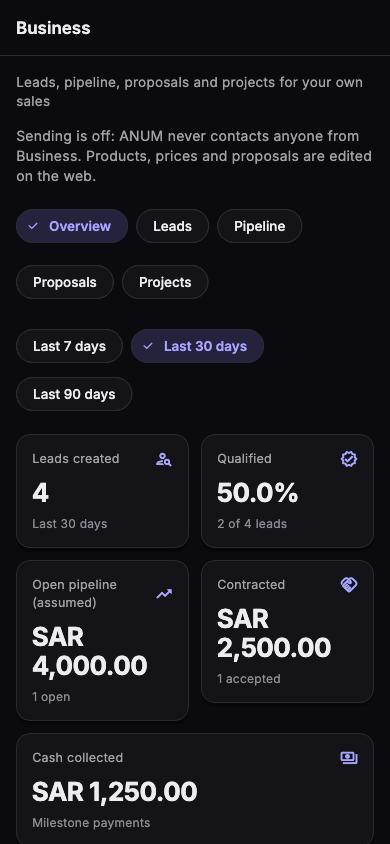
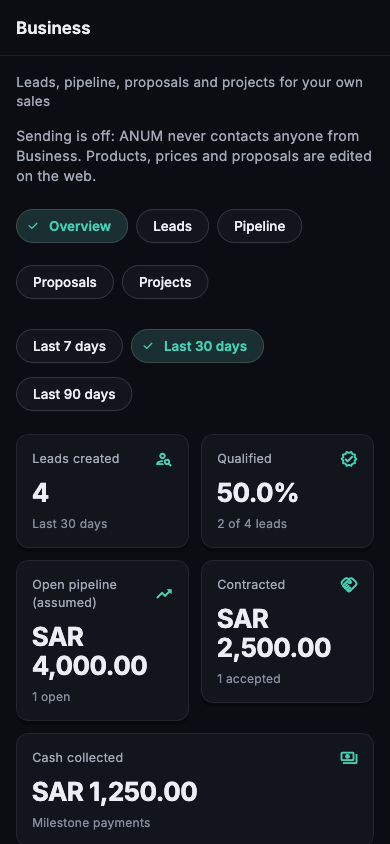
Flutter: jade screenshots and token docs; All inboxes date fits at 200% text

diff --git a/apps/mobile/lib/features/mail_center/mail_all_inboxes.dart b/apps/mobile/lib/features/mail_center/mail_all_inboxes.dart
@@ -607,7 +607,15 @@ class _AllInboxTile extends StatelessWidget {
               ),
             ),
             const SizedBox(width: AnumSpacing.xs),
-            Text(mailWhen(context, m.date), style: theme.textTheme.bodySmall),
+            // A date (not today's time) at 200% text must not push the row
+            // past the tile: one line, fading at its end.
+            Flexible(
+              child: Text(mailWhen(context, m.date),
+                  maxLines: 1,
+                  softWrap: false,
+                  overflow: TextOverflow.fade,
+                  style: theme.textTheme.bodySmall),
+            ),
           ],
         ),
         subtitle: Column(

diff --git a/apps/mobile/lib/src/localization/anum_localizations.dart b/apps/mobile/lib/src/localization/anum_localizations.dart
@@ -2901,6 +2901,7 @@ class _AnumDelegate extends LocalizationsDelegate<AnumLocalizations> {
     Intl.defaultLocale = locale.languageCode;
     return SynchronousFuture(AnumLocalizations(locale));
   }
+
   @override
   bool shouldReload(_AnumDelegate old) => false;
 }

diff --git a/docs/design/anum360.md b/docs/design/anum360.md
@@ -12,8 +12,8 @@ The owner's mockups for the ANUM 360 redesign are in [`anum360-mockups/`](anum36
 
 ## Visual language
 
-- A calm, premium enterprise look (owner, 19 Oct 2026): a restrained neutral base, one brand accent (ANUM iris) for primary actions, links, focus and selection, and semantic colours only for real status (green done, amber pending, red stop), always with a text label too.
-- Hairline borders with soft depth, no gradient text, first-class light and dark themes. The blue-to-violet brand gradient stays only on the ANUM mark and the orb.
+- A calm, premium enterprise look (owner, 19 Oct 2026): a graphite neutral base, one brand accent (jade) for primary actions, links, focus and selection, and semantic colours only for real status (green done, amber pending, red stop), always with a text label too.
+- Hairline borders with soft depth, no gradient text, first-class light and dark themes. The ANUM mark and the orb are drawn in three steps of jade.
 - The orb (the ANUM "A" mark with a live waveform) is the centre of the bottom navigation and of the command screens.
 - Every colour, spacing and type value comes from the app's tokens (`AnumPalette`, `AnumSpacing`, the theme). Mockup values are mapped to the nearest token, never copied.
 
@@ -79,23 +79,22 @@ Rules: every primary action uses the accent gradient (`--d-primary-grad`), never
 
 Tests: `test/theme.test.ts` (the choice rules, the pre-paint script agreeing with them, the dark tokens matching the app's palette, and AA for text, links and status colours on every surface of both themes), `e2e/theme.spec.ts` (Settings > Appearance, reload, "Match my device", the user menu in Arabic, no horizontal overflow at 1440x900, 1366x768, 1024x768, 768x1024 and 390x844) and the light-theme axe pass in `e2e/accessibility.spec.ts`.
 
-### Flutter tokens (premium identity)
+### Flutter tokens (graphite and jade)
 
-`AnumPalette` in `apps/mobile/lib/src/theme/anum_theme.dart` holds the app's tokens; the theme (ColorScheme, TextTheme, buttons, inputs, chips, list tiles, tabs, app bars, navigation bar and rail, dialogs, sheets, snack bars, tooltips, switches) and the shared widgets (`AnumSurface`, `AnumMetric`, `AnumMetricGrid`, `AnumIconChip`, `AnumPill`, `AnumEmpty`, `AnumFeedback`, `AnumSkeleton`, `AnumGradientButton`, the bottom navigation and menu drawer) read only these, so every screen inherits the look. The web's tokens are to be kept to the same values (web branch `claude/design-shell-fixes`; its token change had not landed when these were set).
+`AnumPalette` in `apps/mobile/lib/src/theme/anum_theme.dart` holds the app's tokens, with the same values as the web's graphite and jade identity (`docs/design/visual-identity.md` and the token block in `apps/web/src/styles.css`, from the web branch `claude/design-shell-fixes`). The theme (ColorScheme, TextTheme, buttons, inputs, chips, list tiles, tabs, app bars, navigation bar and rail, dialogs, sheets, snack bars, tooltips, switches) and the shared widgets (`AnumSurface`, `AnumMetric`, `AnumMetricGrid`, `AnumIconChip`, `AnumPill`, `AnumEmpty`, `AnumFeedback`, `AnumSkeleton`, `AnumGradientButton`, the bottom navigation and menu drawer) read only these, so every screen inherits the look. Old field names stay: `sky`, `violet` and `rose` are all the accent, and `accentGradient` is a flat primary fill.
 
-| Token | Dark | Light | Contrast |
-|---|---|---|---|
-| `background`, `surface1`, `surface2`, `surface3` | `#0b0b0f`, `#131318`, `#17171d`, `#1e1e25` | `#f7f7f8`, `#ffffff`, `#ffffff`, `#f1f1f3` | |
-| `line` (hairline), `lineStrong` (inputs, outlines) | `#2a2a33`, `#3a3a45` | `#e4e4e7`, `#d4d4d8` | |
-| `text`, `muted`, `faint` | `#ededf0`, `#a1a1aa`, `#8b8b95` | `#18181b`, `#52525b`, `#6b6b74` | text 7:1 or more, muted and faint 4.5:1 or more on every surface |
-| Accent as text and icons (`violet`, also `sky` and `rose`) | `#a9a4ff` | `#5145cd` | 4.5:1 or more on every surface and on `accentSoft` |
-| Accent as a fill (`accentStart` = `accentEnd`), `onAccent` | `#5b50e0`, white | `#5145cd`, white | white 5.7:1 and 6.8:1 |
-| `accentSoft` (selected rows, chips, navigation indicator) | `#24223d` | `#eeedfb` | |
-| `ok`, `warn`, `stop` | `#6ee7a0`, `#fbbf24`, `#f87171` | `#166534`, `#92400e`, `#b42335` | 4.5:1 or more on surfaces and on their own 12 % tint |
-| `shadow` (soft ambient depth) | black at 40 % | `#18181b` at 8 % | |
-| `brandStart`, `brandMiddle`, `brandEnd` (mark and orb only) | `#4f8bff`, `#6a5cff`, `#9b6bff` | same | |
+| Token | Dark | Light |
+|---|---|---|
+| `background`, `surface1`, `surface2`, `surface3` | `#0b0d12`, `#12151c`, `#171b24`, `#1f2430` | `#f7f8fa`, white, white, `#f1f3f6` |
+| `line`, `lineStrong` (hairlines) | white at 7.5 and 13 % | graphite at 9 and 16 % |
+| `text`, `muted`, `faint` | `#eceef3`, `#a2a8b6`, `#868d9c` | `#12151c`, `#4a5162`, `#626a7b` |
+| Accent as text and icons (`violet`, `sky`, `rose`) | `#45d0b5` | `#0b7564` |
+| Primary fill (`accentStart` = `accentEnd`), `onAccent` | `#0f7a69`, white (5.2:1) | the same |
+| `accentSoft` (selected chips, rows, navigation indicator) | jade at 14 % on a panel | jade at 10 % on white |
+| `ok`, `warn`, `stop` | `#6fd39a`, `#f2c46b`, `#f59aa6` | `#11652f`, `#94500c`, `#b42335` |
+| `brandStart`, `brandMiddle`, `brandEnd` (mark and orb only) | `#5fe0c6`, `#23a990`, `#0f7a69` | the same |
 
-Radii: 8, 10 (controls), 14 (cards), 20 (sheets, dialogs), pill. Type: Inter with Noto Sans Arabic (both bundled; IBM Plex Sans Arabic would need the owner's approval to add the font files), Material 3 sizes and line heights, tighter tracking and weights on headings; KPI values are solid `text` at 26 px. Motion: 150 ms (`AnumMotion.quick`) and 200 ms (`standard`, `page`) on state changes only, zero with reduced motion (`AnumMotion.of`); the loading skeleton's sweep stops too. Loading states show a skeleton (`AnumSkeleton`) with the message instead of a spinner.
+Radii: 8 (controls), 12 (panels), 16 (sheets, dialogs), pill. Type: Inter with Noto Sans Arabic (both bundled; IBM Plex Sans Arabic would need the owner's approval to add the font files), Material 3 sizes and line heights, tighter tracking and weights on headings; KPI values are solid `text` at 26 px. Motion: 150 ms (`AnumMotion.quick`) and 180 ms (`standard`, `page`) on state changes only, zero with reduced motion (`AnumMotion.of`); the loading skeleton's sweep stops too. Loading states show a skeleton (`AnumSkeleton`) with the message instead of a spinner.
 
 Screenshots at 390x844, light and dark, rendered with the bundled fonts and the icon font: [`screens/flutter/`](screens/flutter/) (`home-*.png`, `business-*.png`, `email-*.png`, `settings-*.png`). Tests: `apps/mobile/test/widgets/theme_identity_test.dart` (AA for every text and status colour on every surface in both themes, one accent, solid controls, hairline cards, motion durations, the skeleton with reduced motion, and the shared states at 320 to 1440 px, 200 % text, RTL and dark).
 
